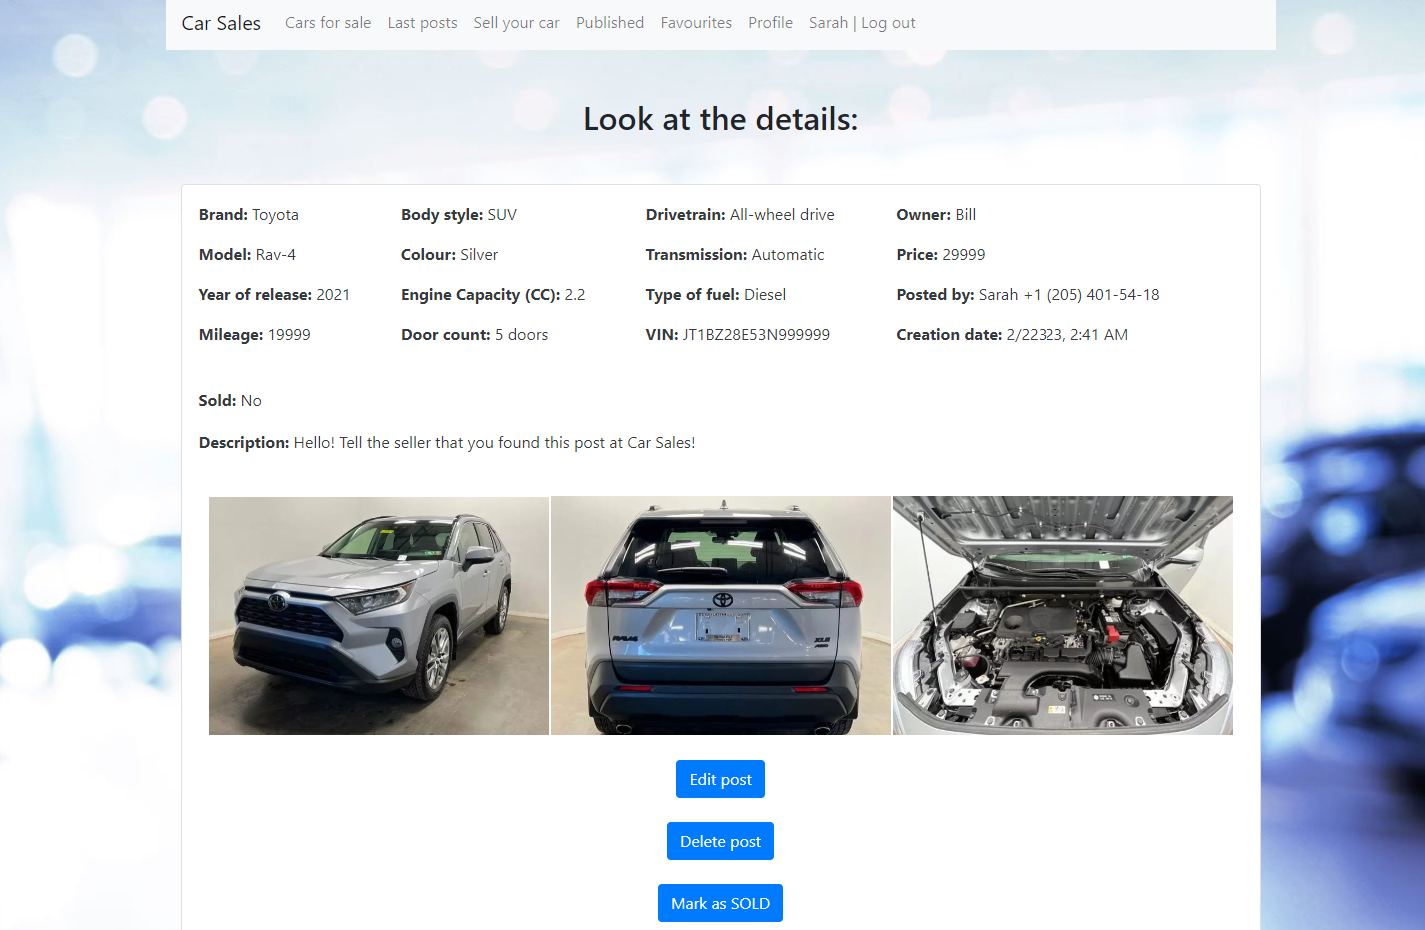
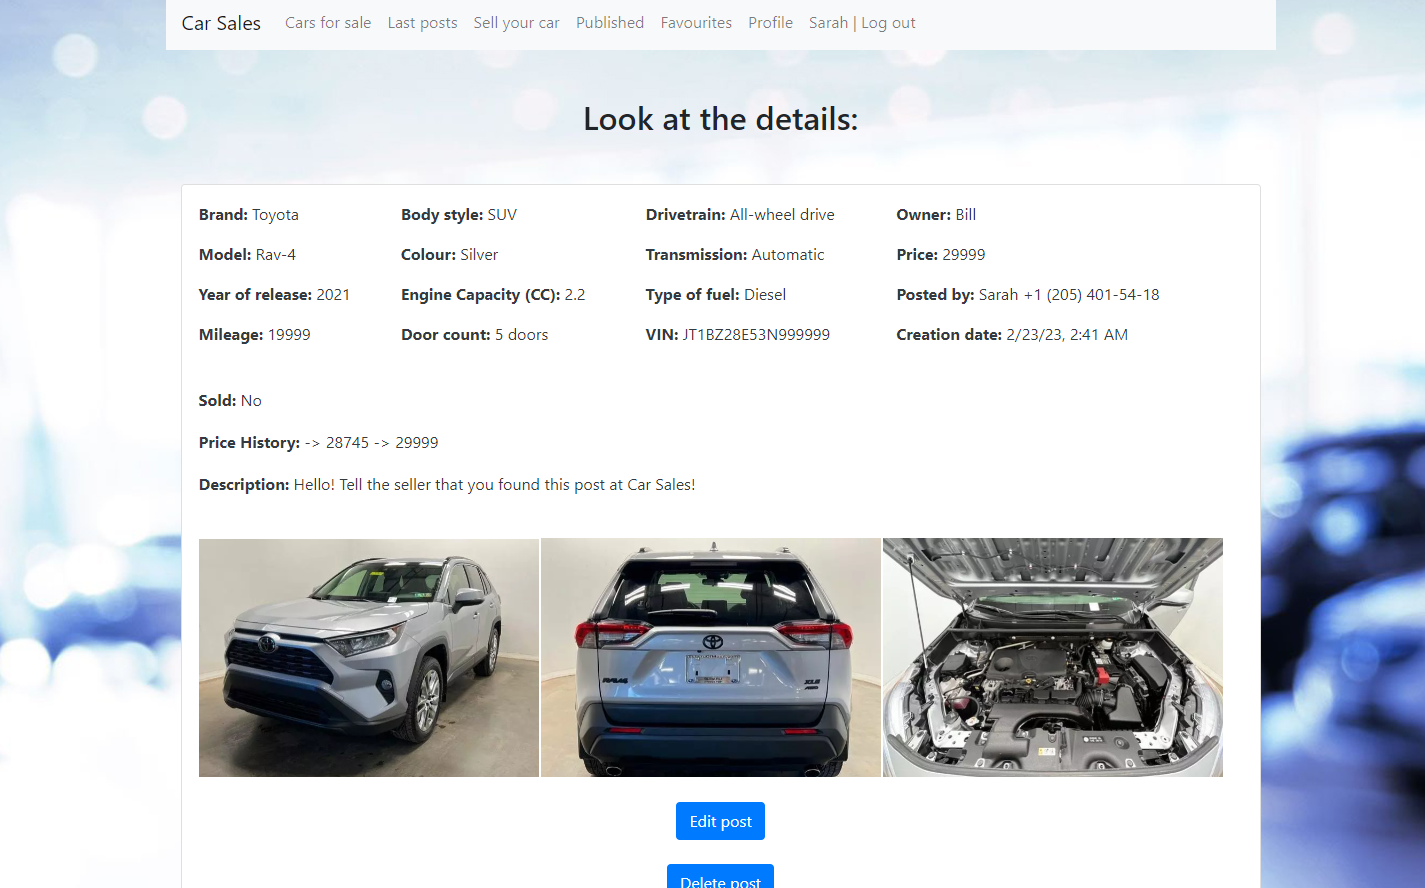
Many various fixes

diff --git a/src/main/resources/templates/post/showAddedPost.html b/src/main/resources/templates/post/showAddedPost.html
@@ -92,6 +92,16 @@
                 <tbody>
                 <tr>
                     <td>
+                    <span th:if="${post.priceHistories.size() > 1}">
+                        <p><b>Price History: </b>
+                        <span th:each="priceHistory: ${post.priceHistories}">
+                            <span th:text="'-> ' + ${priceHistory.after}"></span>
+                        </span></p>
+                    </span>
+                    </td>
+                </tr>
+                <tr>
+                    <td>
                         <p><b>Description: </b><span th:text="${post.description}"></span></p>
                     </td>
                 </tr>

diff --git a/src/main/resources/templates/post/showPost.html b/src/main/resources/templates/post/showPost.html
@@ -100,6 +100,16 @@
                 </tr>
                 <tr>
                     <td>
+                    <span th:if="${post.priceHistories.size() > 1}">
+                        <p><b>Price History: </b>
+                        <span th:each="priceHistory: ${post.priceHistories}">
+                            <span th:text="'-> ' + ${priceHistory.after}"></span>
+                        </span></p>
+                    </span>
+                    </td>
+                </tr>
+                <tr>
+                    <td>
                         <p><b>Description: </b><span th:text="${post.description}"></span></p>
                     </td>
                 </tr>

diff --git a/src/main/resources/templates/user/addUser.html b/src/main/resources/templates/user/addUser.html
@@ -45,7 +45,7 @@
                         <input type="password" class="form-control" name="password" id="password">
                         <label for="name">Name</label>
                         <input type="text" class="form-control" name="name" id="name">
-                        <label for="name">Phone</label>
+                        <label for="phone">Phone</label>
                         <input type="text" class="form-control" name="phone" id="phone">
                         <label for="timezone.getID()">Timezone</label>
                         <select class="form-control" id="timezone.getID()" name="timezone.getID()" required>

diff --git a/src/main/resources/templates/index.html b/src/main/resources/templates/index.html
@@ -51,7 +51,7 @@
     </nav>
     <br/>
     <br/>
-    <h2 align="center">Welcome to The Car Sales Project!</h2>
+    <h2 align="center" th:text="'Hi, ' + ${user.name} + '! Welcome to The Car Sales Project!'"></h2>
     <br/>
     <div class="vertical-center">
         <form th:action="@{/allPosts}" method="GET" th:align="center">

diff --git a/src/main/resources/templates/post/allPosts.html b/src/main/resources/templates/post/allPosts.html
@@ -52,7 +52,7 @@
     </nav>
     <br/>
     <br/>
-    <h2 align="center">Posts for all time:</h2>
+    <h2 align="center">Posts for all the time:</h2>
     <br/>
     <div class="container py-3">
         <div class="card p-3 mb-2 bg-label text-dark m-auto" style="width: 100%">

diff --git a/src/main/java/ru/job4j/cars/repository/CrudRepository.java b/src/main/java/ru/job4j/cars/repository/CrudRepository.java
@@ -4,6 +4,7 @@ import lombok.AllArgsConstructor;
 import net.jcip.annotations.ThreadSafe;
 import org.hibernate.Session;
 import org.hibernate.SessionFactory;
+import org.hibernate.Transaction;
 import org.hibernate.query.Query;
 import org.springframework.stereotype.Repository;
 
@@ -14,7 +15,7 @@ import java.util.function.Consumer;
 import java.util.function.Function;
 
 /**
- * This class implements analogue of Command pattern
+ * This class implements the analogue of Command pattern
  *
  * @author itfedorovsa (itfedorovsa@gmail.com)
  * @version 1.0
@@ -143,15 +144,15 @@ public class CrudRepository {
      * @return Object T
      */
     public <T> T tx(Function<Session, T> command) {
-        var session = sf.openSession();
+        Session session = sf.openSession();
         try (session) {
-            var tx = session.beginTransaction();
+            Transaction tx = session.beginTransaction();
             T rsl = command.apply(session);
             tx.commit();
             return rsl;
         } catch (Exception e) {
             e.printStackTrace();
-            var tx = session.getTransaction();
+            Transaction tx = session.getTransaction();
             if (tx.isActive()) {
                 tx.rollback();
             }

diff --git a/src/main/java/ru/job4j/cars/model/Post.java b/src/main/java/ru/job4j/cars/model/Post.java
@@ -1,6 +1,7 @@
 package ru.job4j.cars.model;
 
 import lombok.*;
+import lombok.EqualsAndHashCode.Include;
 
 import javax.persistence.*;
 import java.time.LocalDateTime;
@@ -26,7 +27,7 @@ public class Post {
 
     @Id
     @GeneratedValue(strategy = GenerationType.IDENTITY)
-    @EqualsAndHashCode.Include
+    @Include
     private int id;
 
     private String description;
@@ -38,7 +39,7 @@ public class Post {
     @JoinColumn(name = "user_id")
     private User user;
 
-    @OneToMany(cascade = CascadeType.ALL)
+    @OneToMany(cascade = {CascadeType.PERSIST, CascadeType.REMOVE, CascadeType.DETACH})
     @JoinColumn(name = "post_id")
     private Set<PriceHistory> priceHistories;
 

diff --git a/src/main/java/ru/job4j/cars/model/File.java b/src/main/java/ru/job4j/cars/model/File.java
@@ -1,6 +1,7 @@
 package ru.job4j.cars.model;
 
 import lombok.EqualsAndHashCode;
+import lombok.EqualsAndHashCode.Include;
 import lombok.Getter;
 import lombok.NoArgsConstructor;
 import lombok.Setter;
@@ -24,7 +25,7 @@ public class File {
 
     @Id
     @GeneratedValue(strategy = GenerationType.IDENTITY)
-    @EqualsAndHashCode.Include
+    @Include
     private int id;
 
     private String name;

diff --git a/src/main/java/ru/job4j/cars/repository/HibernateFileRepository.java b/src/main/java/ru/job4j/cars/repository/HibernateFileRepository.java
@@ -82,6 +82,7 @@ public class HibernateFileRepository implements FileRepository {
 
     /**
      * Find all File by Post id
+     *
      * @param postId Post id
      * @return List of File
      */
@@ -96,6 +97,7 @@ public class HibernateFileRepository implements FileRepository {
 
     /**
      * Delete all files by Post id
+     *
      * @param postId Post id
      */
     @Override

diff --git a/src/main/java/ru/job4j/cars/model/Car.java b/src/main/java/ru/job4j/cars/model/Car.java
@@ -1,6 +1,7 @@
 package ru.job4j.cars.model;
 
 import lombok.*;
+import lombok.EqualsAndHashCode.Include;
 
 import javax.persistence.*;
 import java.util.HashSet;
@@ -25,7 +26,7 @@ public class Car {
 
     @Id
     @GeneratedValue(strategy = GenerationType.IDENTITY)
-    @EqualsAndHashCode.Include
+    @Include
     private int id;
 
     @ManyToOne(fetch = FetchType.LAZY)

diff --git a/src/main/java/ru/job4j/cars/model/PriceHistory.java b/src/main/java/ru/job4j/cars/model/PriceHistory.java
@@ -1,6 +1,7 @@
 package ru.job4j.cars.model;
 
 import lombok.*;
+import lombok.EqualsAndHashCode.Include;
 
 import javax.persistence.*;
 import java.time.LocalDateTime;
@@ -24,7 +25,7 @@ public class PriceHistory {
 
     @Id
     @GeneratedValue(strategy = GenerationType.IDENTITY)
-    @EqualsAndHashCode.Include
+    @Include
     private int id;
 
     private int before;

diff --git a/src/main/java/ru/job4j/cars/model/Owner.java b/src/main/java/ru/job4j/cars/model/Owner.java
@@ -1,6 +1,7 @@
 package ru.job4j.cars.model;
 
 import lombok.*;
+import lombok.EqualsAndHashCode.Include;
 
 import javax.persistence.*;
 import java.util.HashSet;
@@ -25,7 +26,7 @@ public class Owner {
 
     @Id
     @GeneratedValue(strategy = GenerationType.IDENTITY)
-    @EqualsAndHashCode.Include
+    @Include
     private int id;
 
     private String name;
